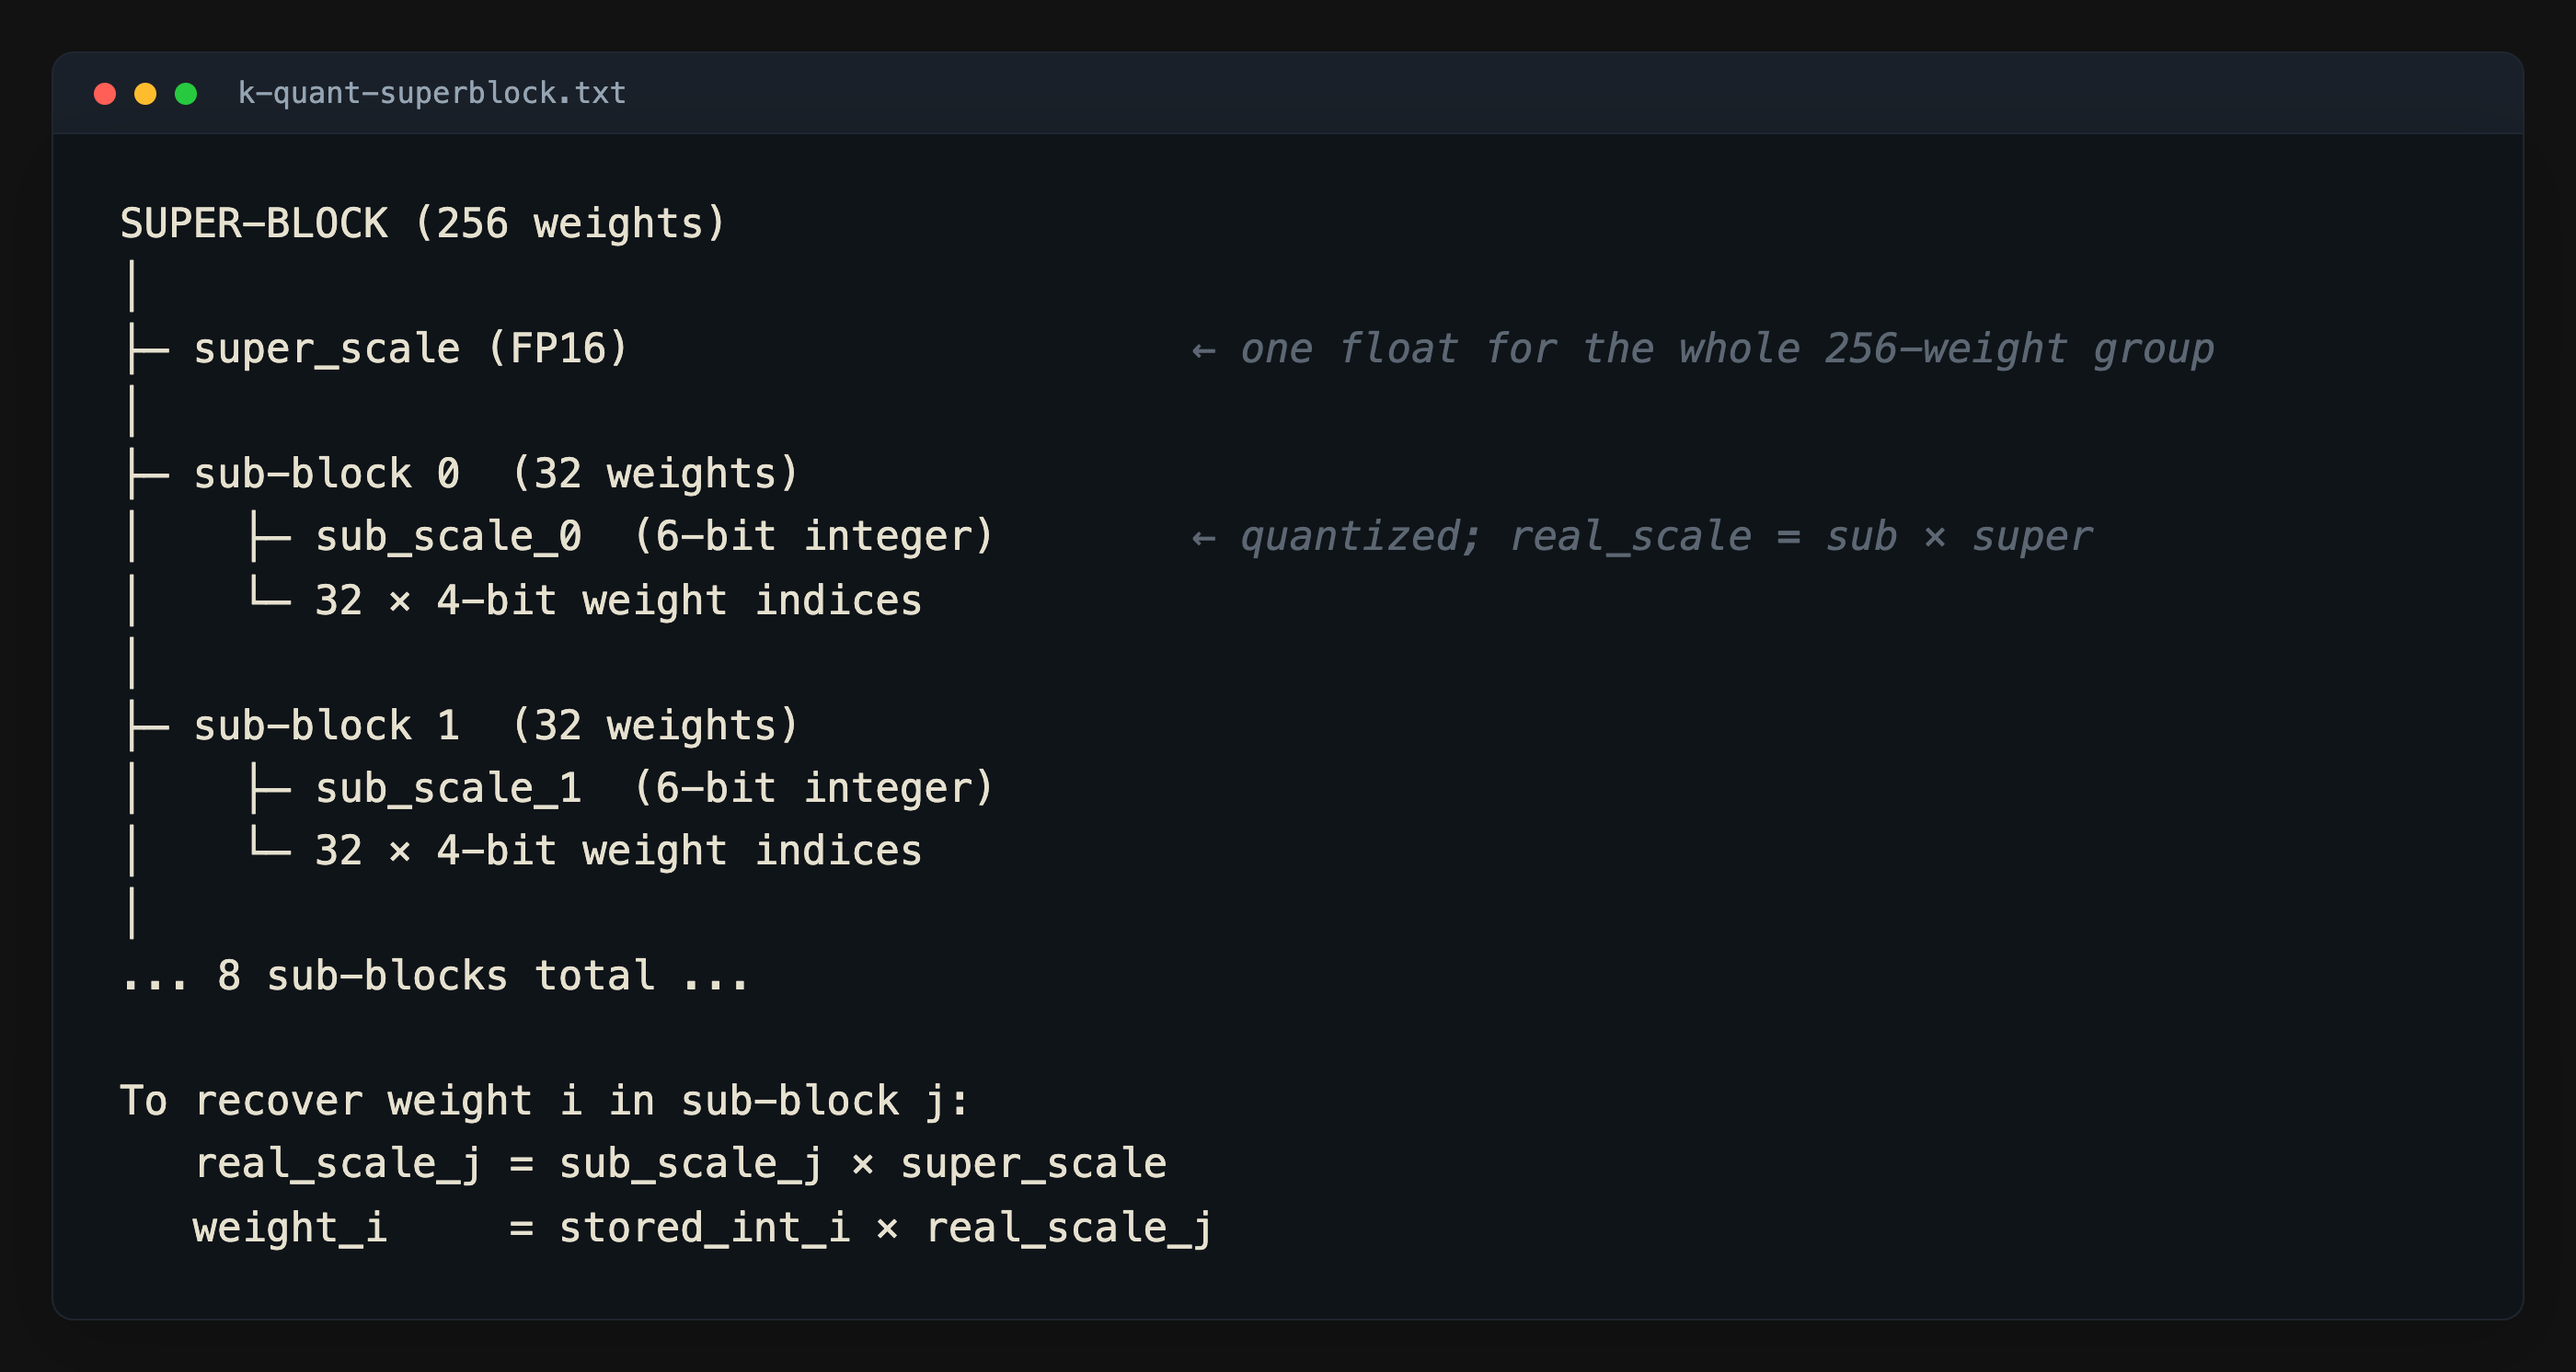
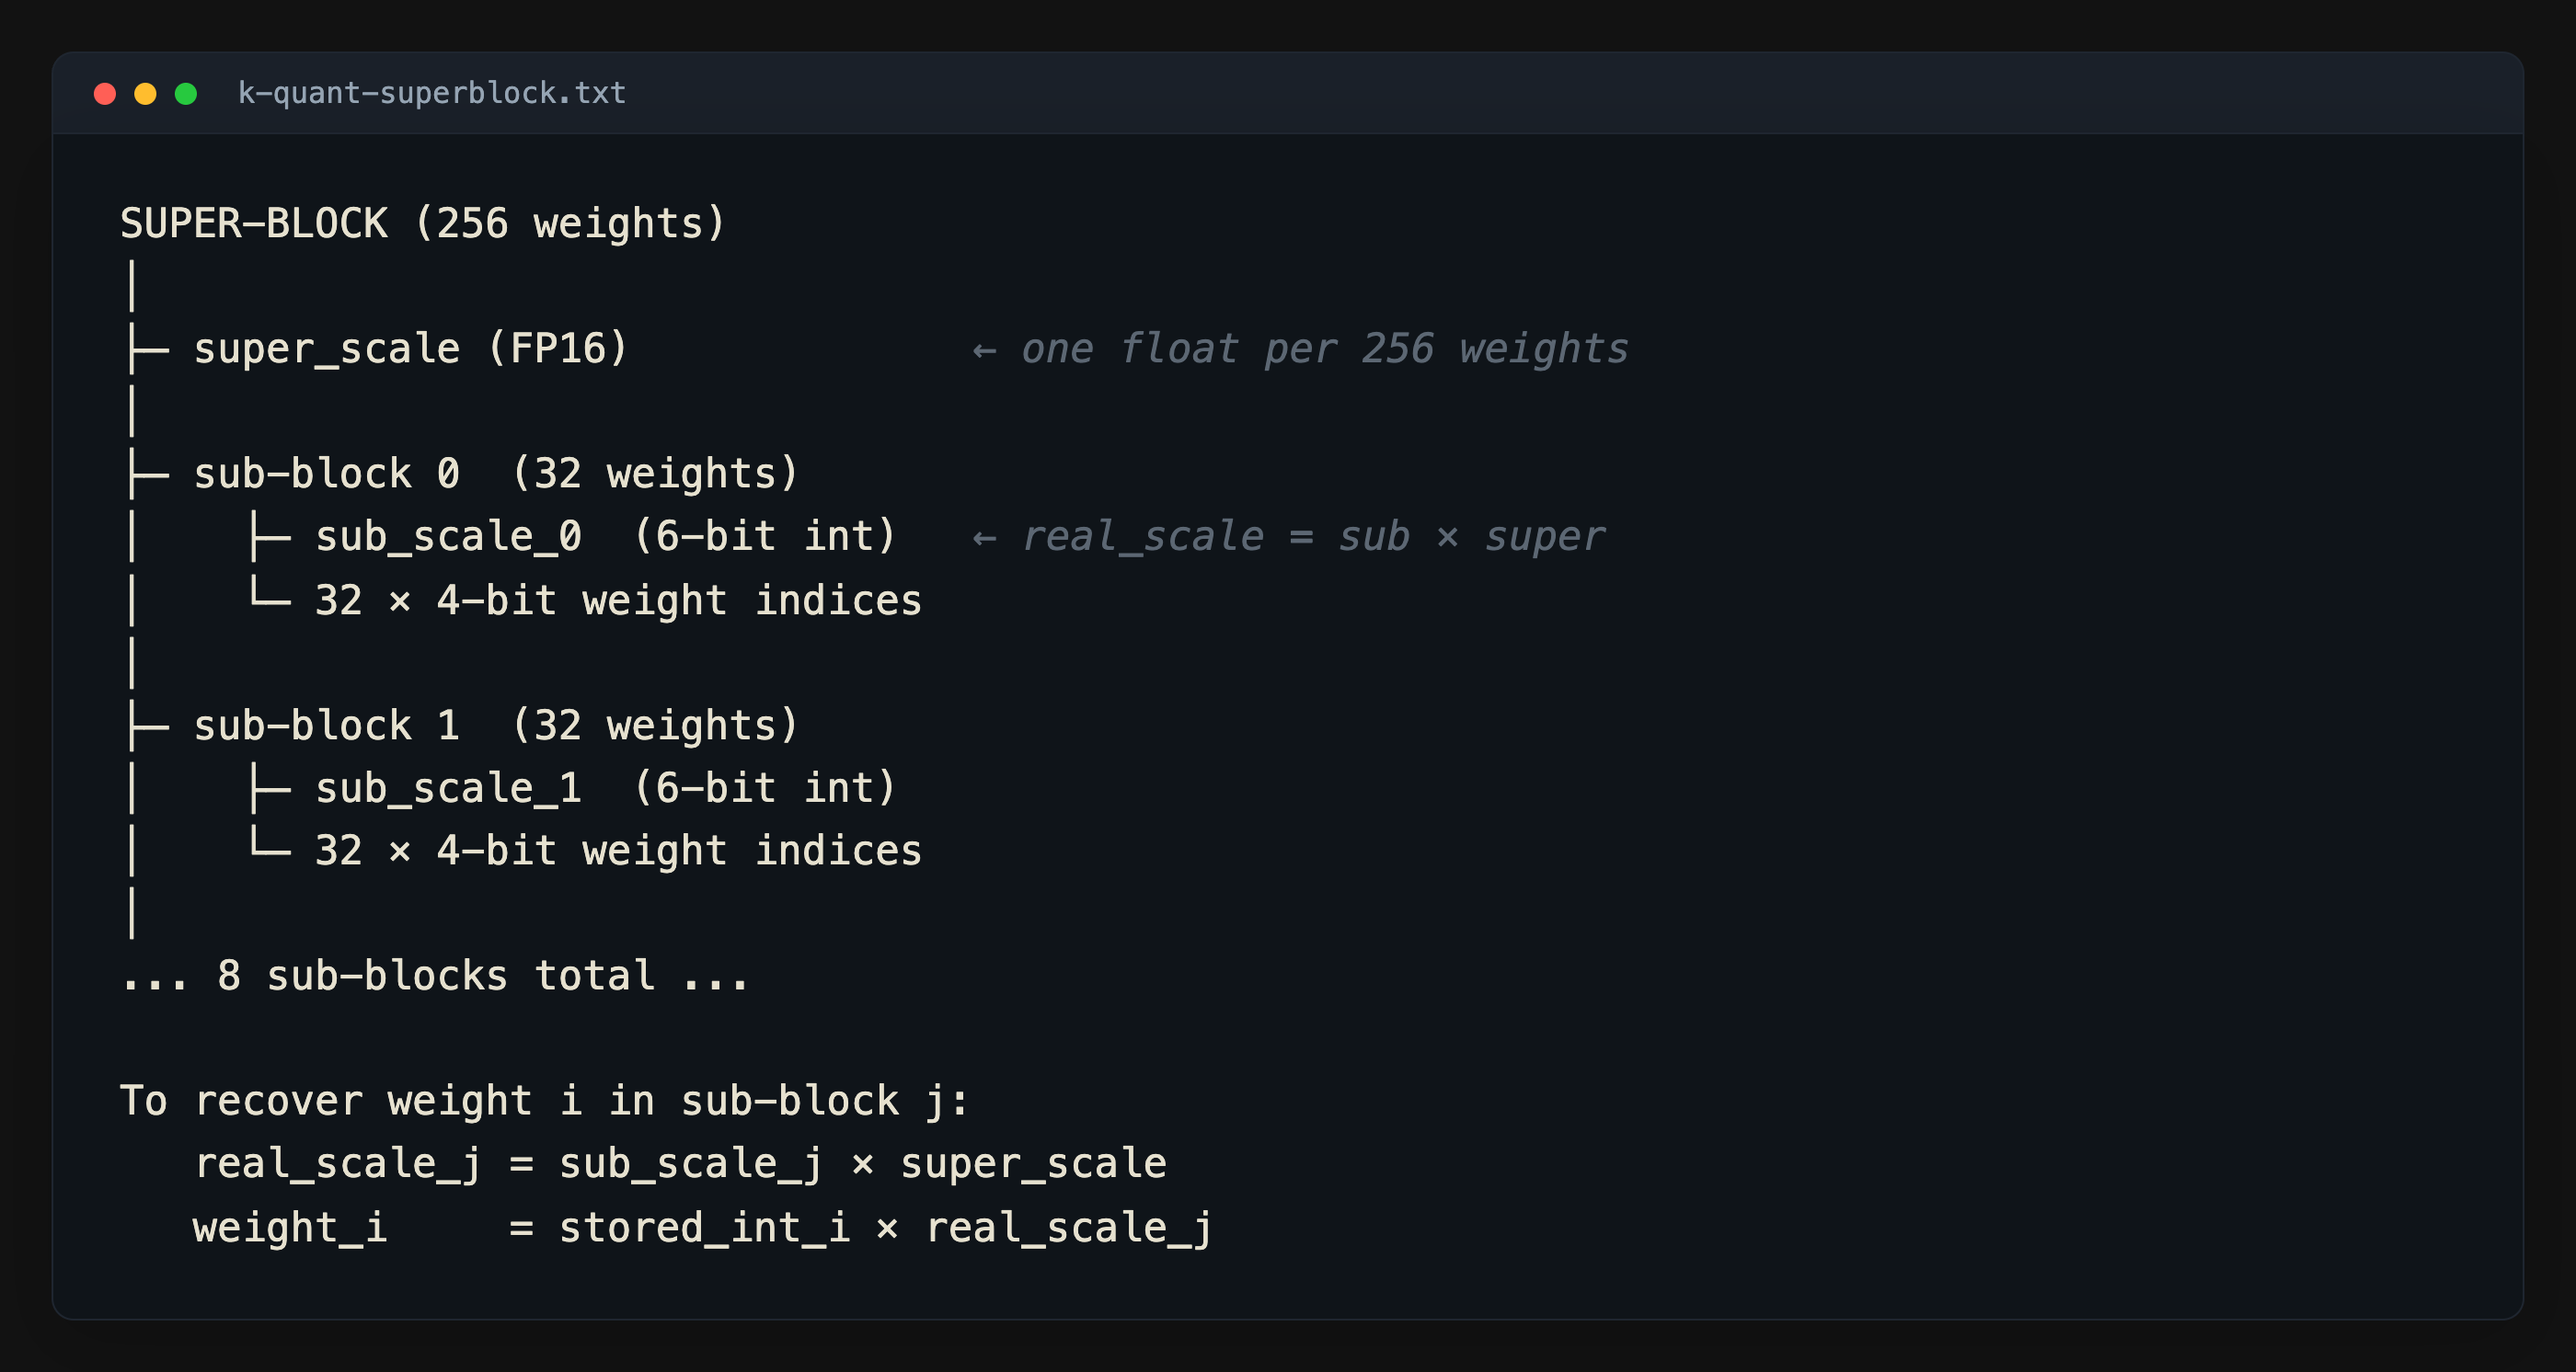
feat: enhance LLM quantization post with additional explanations and context for clarity

Changed region(s): [[0.3729, 0.2466, 0.87, 0.2775], [0.3418, 0.37, 0.8079, 0.4008], [0.3418, 0.555, 0.3729, 0.5858]]

diff --git a/public/posts/llm-quantization/medium/index.html b/public/posts/llm-quantization/medium/index.html
@@ -68,6 +68,7 @@
 </ul>
 <p>The reason it works at all is that LLM weights are surprisingly tolerant of noise. They are billions of small numbers, mostly clustered near zero, and the network&#39;s output depends on a weighted sum across many of them. Small random errors mostly cancel.</p>
 <p>But &quot;4 bits&quot; hides a lot of design choices. There are many different ways to spend those 4 bits — integer vs float, symmetric vs asymmetric, one scale per block of 32 vs scales stacked inside scales, importance-weighted vs uniform, stored vs natively computed. This post walks through each of them.</p>
+<p><strong>The single question that runs through the whole field:</strong> <em>given a fixed bit budget per weight, where do you spend the bits?</em> Every format on this page — Q4_K_M, IQ4_XS, MXFP8, NVFP4 — is a different answer to that one question. Keep that thread in mind; the rest is just variations on a theme.</p>
 <h2>2. Floats: what you&#39;re actually quantizing</h2>
 <p>Before quantization makes sense, you need to remember what a float is. Every floating point number has three parts:</p>
 <p><img src="https://gupta-bhavesh.github.io/posts/llm-quantization/medium/table-1.png" alt="Three parts of a float: sign, exponent (range), mantissa (precision)"></p>
@@ -77,6 +78,7 @@
 <p><img src="https://gupta-bhavesh.github.io/posts/llm-quantization/medium/float-anatomy.png" alt="Bit layout of FP32, FP16, BF16, FP8, FP4, and E8M0 — sign, exponent, and mantissa shown side by side"></p>
 <p><em>Every float is sign + exponent + mantissa. Each format splits the same bit budget differently.</em></p>
 <p><strong>One sentence to remember:</strong> exponent bits buy range, mantissa bits buy precision. Every format picks a different split of the same bit budget.</p>
+<p>That range-vs-precision tradeoff is why <strong>BF16 dominates training</strong> while FP16 is mostly an inference format. Training gradients span 10+ orders of magnitude, and FP16&#39;s narrow 5-bit exponent overflows on the high end and underflows to zero on the low end. BF16&#39;s 8-bit exponent (same as FP32) handles the full range — at the cost of mantissa precision the optimizer doesn&#39;t really need.</p>
 <p>🔗 <strong>Live version:</strong> drag a value and watch each format round it differently — <a href="https://gupta-bhavesh.github.io/visuals/float-anatomy">gupta-bhavesh.github.io/visuals/float-anatomy</a></p>
 <h2>3. The core mechanic: block, slot, scale, dequantize</h2>
 <p>Every quantization scheme — old, new, integer, float — boils down to four ideas stacked on each other.</p>
@@ -137,6 +139,7 @@
 <p><img src="https://gupta-bhavesh.github.io/posts/llm-quantization/medium/storage-vs-compute.png" alt="Storage quantization dequantizes weights to FP16 before the matmul; compute quantization runs the matmul directly in low precision"></p>
 <p><em>Storage quant saves memory only. Compute quant saves memory <em>and</em> compute — but needs hardware that natively does the low-precision math.</em></p>
 <p><strong>The lesson:</strong> GGUF saves you memory. MXFP8 / NVFP4 save you memory AND compute. But compute quantization is locked to whatever silicon happens to support that exact format — a hardware support problem more than a math problem.</p>
+<p><strong>Apple Silicon changes the calculation slightly.</strong> Unified memory means the CPU and GPU share one physical bandwidth pool — there&#39;s no separate VRAM to transfer weights into. Storage quantization wins are still real (less bandwidth consumed per matmul), but the &quot;fit it in VRAM&quot; framing doesn&#39;t apply. An M-series Mac can run a Q4_K_M 70B because the model just sits in regular RAM that the GPU can read directly, no copy step. CPU and GPU contend for that shared bandwidth, so quantization gains show up as throughput rather than as a binary fits/doesn&#39;t-fit.</p>
 <h2>9. MXFP8: microscaling FP8</h2>
 <p>MXFP8 is the format that finally took FP8 from &quot;interesting research&quot; to &quot;production inference.&quot; It was standardized by AMD, Arm, Intel, Meta, Microsoft, Nvidia, and Qualcomm together through the Open Compute Project (OCP MX v1.0, September 2023) — so the same format runs natively on H100, MI300, Gaudi 3, and Blackwell.</p>
 <p><img src="https://gupta-bhavesh.github.io/posts/llm-quantization/medium/table-4.png" alt="MXFP8 format fields: FP8 (E4M3) weights, 32-weight blocks, E8M0 power-of-2 scale"></p>

diff --git a/src/posts/llm-quantization/Post.tsx b/src/posts/llm-quantization/Post.tsx
@@ -98,6 +98,13 @@ export default function LLMQuantizationPost() {
             per block of 32 vs hierarchical scales of scales, importance-weighted vs uniform,
             stored vs natively computed. This post unpacks every one of them.
           </p>
+
+          <p>
+            <strong>The single question that runs through the whole field:</strong> <em>given a
+            fixed bit budget per weight, where do you spend the bits?</em> Every format on this
+            page — Q4_K_M, IQ4_XS, MXFP8, NVFP4 — is a different answer to that one question.
+            Keep that thread in mind; the rest is just variations on a theme.
+          </p>
         </Section>
 
         <Section label="§ 02 — Floats" title="What You're Actually Quantizing">
@@ -158,6 +165,14 @@ E8M0           ─ │ 8 exp │ ─                                        │ 
               precision, FP4 has both range and precision compressed into almost nothing.
             </p>
           </Callout>
+
+          <p>
+            That range-vs-precision tradeoff is why <strong>BF16 dominates training</strong> while
+            FP16 is mostly an inference format. Training gradients span 10+ orders of magnitude,
+            and FP16's narrow 5-bit exponent overflows on the high end and underflows to zero on
+            the low end. BF16's 8-bit exponent (same as FP32) handles the full range — at the
+            cost of mantissa precision the optimizer doesn't really need.
+          </p>
 
           <VisualEmbed
             to="/visuals/float-anatomy"
@@ -827,6 +842,16 @@ To recover weight i in sub-block j:
               format — a hardware support problem more than a math problem.
             </p>
           </Callout>
+
+          <p>
+            <strong>Apple Silicon changes the calculation slightly.</strong> Unified memory
+            means the CPU and GPU share one physical bandwidth pool — there's no separate VRAM
+            to transfer weights into. Storage quantization wins are still real (less bandwidth
+            consumed per matmul), but the "fit it in VRAM" framing doesn't apply. An M-series
+            Mac can run a Q4_K_M 70B because the model just sits in regular RAM that the GPU
+            can read directly, no copy step. The CPU and GPU contend for that bandwidth, so
+            quantization gains show up as throughput rather than as a binary fits/doesn't-fit.
+          </p>
         </Section>
 
         <Section label="§ 09 — MXFP8" title="Microscaling FP8: The Open Standard">
